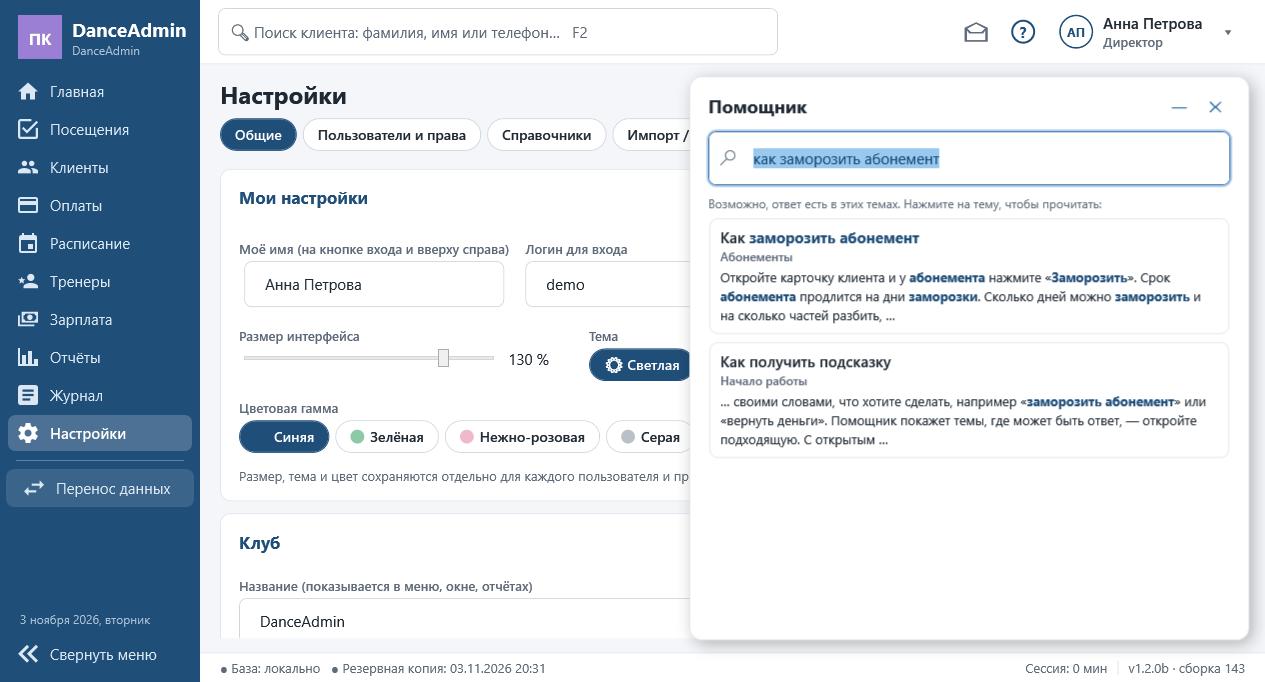
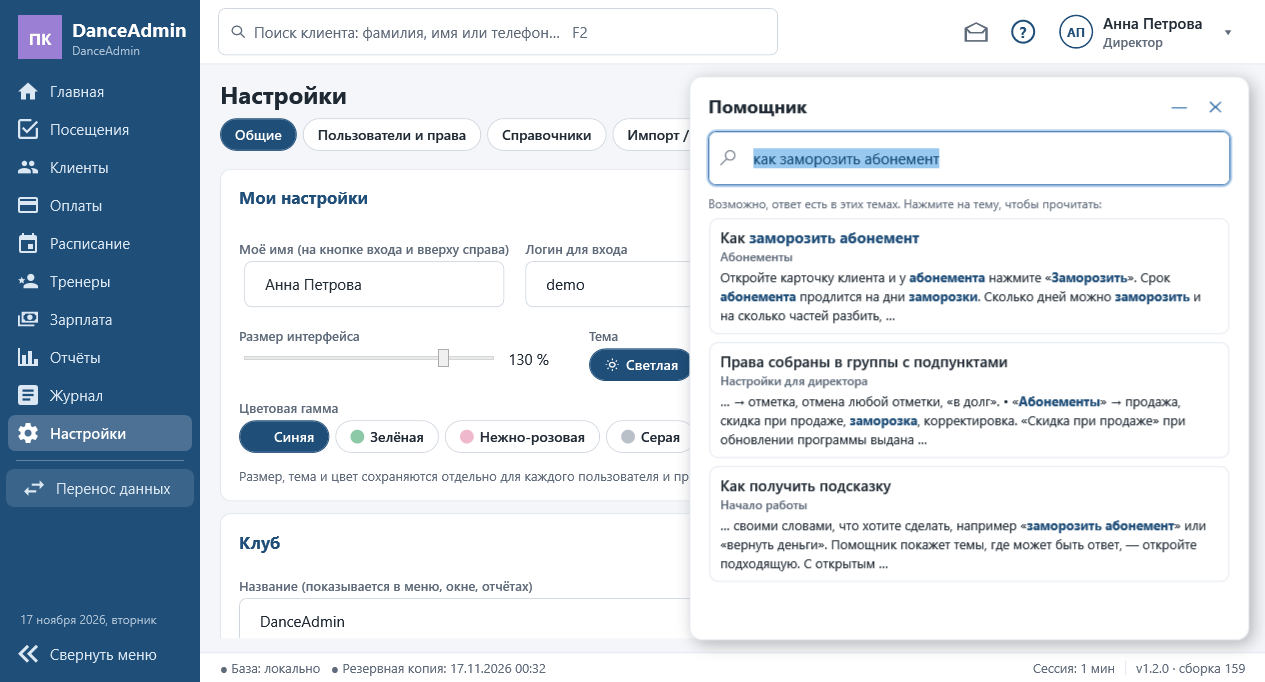
v1.2.0

diff --git a/CHANGELOG.md b/CHANGELOG.md
@@ -2,6 +2,126 @@
 
 Формат версий: `Major.Minor.Patch.Build` (ТЗ §24).
 
+## 1.2.0, сборка 159 — 17.11.2026 — обычный выпуск
+
+Всё из бета-версий 1.2.0b (сборки 132–157). Главное по сравнению с 1.1.0 (сборка 131):
+- **Отчёт смены:** все деньги смены — абонементы, иная оплата, иной расход, возвраты, зарплата; «Поступило в кассу за текущую смену»; отправка в Telegram (PDF, Excel, текст).
+- **Права ролей деревом** с подпунктами (галочка / квадратик / пусто), роли и наборы прав переносятся экспортом.
+- **Клиенты:** загрузка из Excel, семья клиента, общий абонемент на нескольких, клиенты без телефона и без возрастной категории.
+- **Аналитика** с графиками; помощник и новое руководство; перенос данных из старого учёта; аренда зала.
+- **Резервные копии:** надёжное восстановление, хранение по дням, неделям и месяцам, инструкция по Облаку Mail.ru.
+- Журнал с «Было / Стало» словами и фильтром «Расходы»; векторные значки; логотип разработчика в «О программе».
+
+Исправлено в выпуске: тёмная тема — имена клиентов в «Посещениях → Параллельно» и списки в «Клиенты → Группы / Возраст» стали читаемыми.
+
+## 1.2.0b, сборка 157 — 17.11.2026
+
+- **Логотип разработчика «AI Development»** в «Настройки → Общие → О программе» — слева от строк «Разработано…» и «Написать разработчику»; одноцветный, цвета текста (в тёмной теме светлый). Файл — `src/DanceAdmin.App/Assets/logo_AI.png` (исходник) и `logo-ai-mask.png` (для программы).
+- `build.ps1 -SkipTests` — сборка без прогона тестов.
+
+## 1.2.0b, сборка 156 — 17.11.2026
+
+- **«Поступило в кассу за текущую смену»** — новая зелёная строка в отчёте смены (окно, лист А4/PDF, текст, черновик закрытия): наличные оплаты − наличные возвраты − наличные расходы, без остатка с прошлой смены; подсказка с разбивкой. В «Отчёты → Отчёты смен» под суммой «В кассе» — мелкая зелёная строка «+… за смену» с той же подсказкой.
+- **Верхняя строка отчёта** («Наличные: … | Сдано руководителю: …») — жирным на зелёном фоне.
+- **Права ролей:** у пункта с подпунктами галочка — только когда отмечены все подпункты, часть — закрашенный квадратик, ничего — пусто; щелчок по квадратику отмечает все.
+- **«Сформировать зарплату за смену»:** ползунок времени двигается колёсиком мыши (5 минут за щелчок).
+
+## 1.2.0b, сборка 155 — 17.11.2026
+
+- **«− Расход» на «Главной»** — справа от «₽ Прочая оплата» (по праву «Расходы»).
+- **Отчёт смены показывает все деньги.** Новые разделы: «3. Иная оплата» (погашение долга, аренда, прочее, доплаты за старые абонементы — от кого, сумма, способ, назначение), «4. Иной расход» (расходы кроме зарплаты и возвраты с причиной), «5. Зарплата» (начислено / выдано). Старые отчёты открываются по-старому.
+- **Права ролей с подпунктами.** Группы «Клиенты», «Посещения», «Абонементы», «Оплаты» (с «Возвратами»), «Зарплата» (выдача, формировать другим); «Отчёты» → «Аналитика» и «Отчёты смен» — вкладки раздела по отдельности. При обновлении прежние права сохраняются.
+- **«Правила и ставки»** в «Справочниках» видны только с этим правом.
+- **Журнал:** «Было / Стало» обычными словами вместо JSON (только изменившиеся поля); новый фильтр «Расходы» (расходы и выдачи зарплаты); в записи «Права роли» — имя роли и полное название права.
+- **«Сформировать зарплату»** перенесена из «Оплат и кассы» в «Зарплату» — справа от «Сотрудники», за тонкой чертой; подсказка исправлена (смена не закрывается).
+- **«Посещения»** всегда открываются в виде «Параллельно».
+- **Значки:** мальчик и девочка — векторные (синий с чёлкой, малиновая с хвостиками и бантиками, серый — пол не указан); вместо цветных эмодзи — одноцветные контурные значки (способы оплаты, группы, возраст, комментарии, поиск, печать, пароль, тема, руководство, выбрать файл, Excel, «Только просмотр», сохранить в файл).
+
+## 1.2.0b, сборка 154 — 16.11.2026
+
+- **Роли в экспорте и импорте.** «Права ролей» выгружают и сами роли (кроме директора): галочки прав, ставки зарплаты (повременная, за отметки, фиксированная), учёт рабочего времени и округление. При импорте роль, которой нет, создаётся; у роли с тем же названием права, ставки и учёт времени заменяются (предупреждение в предпросмотре). Роль директора не трогается, пользователи и пароли не переносятся.
+- **Инструкция «Облако Mail.ru»** в «Настройки → Резервные копии» — кнопка «ⓘ Облако Mail.ru: инструкция» рядом с «Второй папкой для копий»: установка, вход, автозапуск, диск Облака, выбор папок, проверка; ссылки открываются в браузере.
+
+## 1.2.0b, сборка 153 — 16.11.2026
+
+- **Быстрее перенос в группу и возрастную категорию** («Клиенты → 👥 Группы / 🎂 Возраст») на большой базе: после «→» и «✕» программа обновляет только одного клиента, а не перечитывает всех (на 450 клиентах работа с базой — около 16 мс вместо 220 мс); в этих режимах не строятся плитки «Карточек». «Все →» в группу — одной записью в базу и одной строкой в журнале (450 клиентов — около 0,1 с вместо 3,5 с).
+
+## 1.2.0b, сборка 152 — 16.11.2026
+
+- **Шкала абонемента (по рисунку, уточнение к 151):** пройденные — закрашенные зелёные; последний пройденный — зелёный контур с номером внутри (сколько занятий отмечено); все следующие — бесцветные, синего выделения «следующего» больше нет.
+
+## 1.2.0b, сборка 151 — 16.11.2026
+
+- **Шкала абонемента:** число теперь в последнем зелёном (отмеченном) кружке — сколько занятий отмечено; раньше число стояло в следующем кружке (какое по счёту следующее). Следующий кружок по-прежнему обведён синим, без числа. На бледных кружках (перенос с бумаги, закончившийся абонемент) число тёмно-зелёное. Подсказка при наведении: «Отмечено занятий: N».
+
+## 1.2.0b, сборка 150 — 16.11.2026
+
+- **Семья клиента.** В карточке клиента («Изменить») — поле «Семья»: родственники через поиск, можно несколько, «✕» убирает. Семья общая для всех её членов; добавленный человек приносит свою семью (семьи объединяются); семья из одного человека не хранится. В карточке — знак семьи (взрослый с ребёнком) и «Семья: …» ссылками; при продаже абонемента — тот же знак и имена. Миграция V150_ClientFamily (поле Clients.FamilyId).
+- **Опция «Семья»** в «Расширенных» (новая карточка «Клиенты»), по умолчанию включена; выгружается с расширенными настройками.
+- **Семья в экспорте и импорте** клиентов (ключ «family» у членов одной семьи).
+- **Клиент без возрастной категории:** в карточке пункт «— не указана —» (сохраняется как есть), в «Клиенты → 🎂 Возраст» — «✕» убирает категорию.
+- **Клиенты из Excel** — без возрастной категории. Категория по умолчанию при импорте ставится только клиентам самого импорта (раньше — всем клиентам базы без категории).
+- **Экспорт:** кнопка «⬇ Выгрузить…» — слева под описанием, как в «Импорте».
+- Текст опции «Общий абонемент» в «Расширенных» — про нескольких участников.
+
+## 1.2.0b, сборка 149 — 15.11.2026
+
+- **Новая база — пустая.** При первом запуске программа не создаёт залы, группы и типы абонементов, возрастные категории (раньше — образцы). Студия заполняет справочники сама или импортом. Существующие базы не меняются.
+- **Экспорт — окно выбора.** Галочки убраны с карточки «Экспорт»: «⬇ Выгрузить…» открывает окно — клиенты, тренеры, расписание, справочники с подпунктами (типы и группы абонементов, направления, доплаты, залы, группы клиентов, возрастные категории), расширенные настройки (+ «вместе с токеном Telegram»), права ролей, «вместе с архивными». Выбор запоминается до закрытия программы.
+- **Импорт:** у «Справочников» в «Что импортировать» — те же подпункты. Группа клиента или возрастная категория, которой нет в базе, создаётся (предупреждение «будет создана» в предпросмотре).
+- **Клиенты из Excel** сразу получают согласие на обработку персональных данных (дата импорта).
+- **Право «Скачать журнал»** (подпункт «Журнал действий»): без него в «Журнале» нет кнопок «⬇ Скачать PDF» и «⬇ Excel», скачать нельзя. При обновлении выдано всем ролям и наборам с «Журналом действий».
+- **«Идёт загрузка списка клиентов…»** — при «добавить в группу» (всегда: «Открывается страница клиентов…»), при переключении фильтров «Клиентов» и переходах с «Главной» при большой базе.
+- **Перенос данных:** под именем клиента — «Сейчас: группа … · возраст …»; архивные группы и категории тоже есть в списках, поэтому у клиента подставляется его значение.
+
+## 1.2.0b, сборка 148 — 12.11.2026
+
+- **Ставки зарплаты по ролям**: показываются все роли; под названием роли — её работающие сотрудники, сотрудник «Не работает» не показывается (вернули в «Работает» — снова виден). Скрытие ролей из сборки 147 отменено.
+- **Общий абонемент — «Убрать» участника**: в окне «+ общий абонемент» список «Уже пользуются» с кнопкой «Убрать» (с подтверждением). Клиент больше не отмечается по абонементу; его прошлые посещения остаются. Действие — в журнал.
+
+## 1.2.0b, сборка 147 — 12.11.2026
+
+- **Телефон клиента необязателен** для всех. Введённый номер по-прежнему проверяется (+7 и 10 цифр). Клиенты без единого номера — в «Требует внимания» на «Главной» и в новом фильтре «Без телефона» в «Клиентах».
+- **Клиенты из Excel**: «_» в начале номера = «+»; пустая ячейка — без телефона; текст или непонятный номер — клиент добавляется, текст записывается в заметку («Телефон из файла: …»), в предпросмотре — предупреждение; номер со словами («… мама») — номер в телефон, весь текст в заметку.
+- **Общий абонемент на нескольких**: в карточке покупателя у действующего абонемента кнопка «+ общий абонемент» — выбрать одного или нескольких клиентов. У покупателя — «Общий абонемент с: …» (все участники ссылками), у участника — «Пользуется чужим абонементом · оплатил(а): …». Отчёт смены — по строке на каждого участника, бесплатно. Существующие общие абонементы перенесены в новую таблицу (миграция V147_MembershipShares).
+- **Импорт: «Что импортировать»** — после проверки файла галочки по категориям (клиенты, тренеры, расписание, справочники, расширенные настройки, права ролей); снятая категория не загружается, цифры пересчитываются сразу.
+- **Шаблоны расписания**: фильтры по направлению, тренеру и залу (общие с неделей) и счётчик шаблонов.
+- **Резервные копии**: путь второй папки и папки отчётов — текстом рядом с «Выбрать…», а не полем ввода; «Убрать» → «Удалить путь», появилось и у второй папки.
+- **Окно входа**: директор по центру сверху, остальные ниже по должности, ряды по три — каждый по центру окна.
+- **Права ролей деревом**: «Настройки» → «Пользователи и права», «Справочники» (→ типы и группы абонементов, направления, залы, группы клиентов, возрастные категории, правила и ставки), «Импорт / экспорт», «Резервные копии», «Печать», «Расширенные»; новое право «Отчёты / Аналитика» (раздел «Отчёты»), «Финансы» — выручка и «Оплаты». Галочка пункта ставит/снимает подпункты, подпункт включает пункт. При обновлении роли с «Настройки» получили все подпункты, с «Финансы» — «Отчёты / Аналитика».
+- **Пользователи**: «Удалить» у сотрудника, который уже работал, неактивна, подсказка объясняет почему.
+- **Группы клиентов**: в строке группы ссылка «добавить в группу» — «Клиенты» → «Группы» со всеми клиентами и этой группой справа.
+
+## 1.2.0b, сборка 146 — 12.11.2026
+
+Исправления по полному тесту сборки 145:
+- **Тип абонемента**: сохранённая заморозка «0 дней» при повторном открытии больше не превращается в 12 дней (и части — в 2); поля показывают значения из базы.
+- **Клиенты из Excel**: в замечаниях — номер строки файла Excel («Клиенты, строка 5»), пустые строки нумерацию не сбивают; дубль внутри файла — «совпадает со строкой 2 (ФИО)»; строка без телефона — «Не указан телефон».
+- **Импорт**: если импортировать нечего (все записи — ошибки или уже в базе), «Импортировать (0)» не создаёт пустую запись в истории и лишнюю резервную копию — появляется пояснение.
+- **Роли**: название — не длиннее 40 символов; при пустом названии под полем подсказка, а не молчание.
+- **Настройки**: вкладки переносятся на вторую строку, если не помещаются (маленький экран, крупный шрифт) — «Расширенные» всегда видна.
+- **Аналитика**: длинные имена тренеров — с «…» и полностью во всплывающей подсказке; столбец «Занятий» уже.
+
+## 1.2.0b, сборка 145 — 11.11.2026
+
+- **Клиенты из Excel.** В «Настройки → Импорт / экспорт» — кнопка «📋 Клиенты из Excel…» (и .xlsx в «Выбрать файл…»): первый столбец — полное имя (Фамилия Имя Отчество), второй — телефон, строка заголовка пропускается сама. Дальше — обычный предпросмотр импорта: ошибки (нет имени, неверный телефон) и дубли (то же имя и телефон уже в базе) пропускаются; клиенты попадают во взрослую категорию; загрузку можно откатить. Телефон, записанный в Excel числом, читается правильно.
+- **Телефон ребёнка необязателен.** Для детской возрастной категории (с представителем) поле «Телефон» без звёздочки: можно оставить пустым или вписать телефон родителя. У взрослых телефон обязателен; неверно введённый номер не принимается и у ребёнка. В карточке ребёнка без телефона пустая строка не показывается.
+- **Заморозка в типе абонемента.** Абонемент на 1 занятие не замораживается: поля «Заморозка, дней» и «Можно разбить на частей» неактивны. Частей не больше, чем занятий (4 занятия — максимум 4), подсказка под полями; то же ограничение действует и при заморозке абонементов уже сохранённых типов (превысить может директор).
+- **Импорт / экспорт**: вкладка прокручивается — на маленьком экране и с крупным шрифтом видны все блоки; список замечаний в предпросмотре прокручивается внутри.
+- Импорт клиентов без возрастной категории (в том числе JSON) ставит категорию по умолчанию, как при ручном создании клиента.
+
+## 1.2.0b, сборка 144 — 05.11.2026
+
+- **Telegram: PDF приходит как PDF.** Имя файла с русскими буквами («Отчет №24 - 03.11.2026 - [Анна].pdf») уходит обычной строкой UTF-8, а не в записи «=?utf-8?B?…?=», которую Telegram не понимает: раньше файл мог прийти без имени и расширения. У файлов правильный тип (PDF, Excel, текст). Если кому-то не доставлено — в сообщении имя получателя, а не только ID.
+- **Telegram: кому идут уведомления.** В настройках бота — список получателей по именам (название группы или имя человека, подтягиваются из Telegram и запоминаются) с кнопкой «Убрать» у каждого.
+- **Шапка отчёта смены**: «Наличные: f1 / f2 (дата смены) | Сдано руководителю: f3 (дата сдачи)»; f1 — на руках до смены, f3 — сдано, f2 = f1 + наличные за смену − f3. Так же — в подписи к файлу в Telegram и в тексте отчёта.
+- **«Фактически на руках»** вместо «факт» в отчёте и «Фактически в кассе» в окне закрытия смены; название меняется в «Расширенных» (карточка «Наличные в отчёте смены»).
+- **Пользователи**: «Вкл/выкл» → «● Работает» / «○ Не работает» (видно состояние, перед «Не работает» — подтверждение); «Скрыть» / «Показать» убирает сотрудника, который уже не работает, из списков «Зарплаты» (пока остаток по зарплате не 0 — он виден).
+- **Перенос данных**: после «Отмечено» — дата: отмечено больше 0 — «Дата первого занятия» (абонемент начат с неё), 0 или пусто — «Дата покупки абонемента» (не начат, ожидание считается от покупки). Подпись меняется сама; дата из будущего не принимается.
+- **Закрытие программы** больше не «зависает» («Не отвечает» в заголовке): резервная копия при выходе делается в фоне, надпись «Приложение закрывается…» видна до конца.
+- **Ошибка при смене роли** сотрудника в «Пользователях» («SelectedItems может быть изменено только в режимах множественного выделения») исправлена: список перестраивается после того, как выбор закончен.
+- **Руководство и помощник**: колесо мыши листает в 3 раза быстрее.
+
 ## 1.2.0b, сборка 143 — 01.11.2026
 
 Исправления по ретесту сборки 142:
@@ -27,7 +147,7 @@
 - **Помощник переделан**: на вопрос своими словами предлагает список тем, где может быть ответ, с кусочком текста в каждой; щелчок открывает тему целиком. Понимает формы слов и житейские выражения («вернуть деньги» → возврат, «бот» → Telegram). Все его тексты написаны понятным языком.
 - **Расписание**: фильтр по направлениям; кнопки «Печать» и «⬇ Скачать PDF» — на лист попадает именно то, что выбрано (неделя, тренер, зал, направление).
 - **Telegram-бот**: токен на экране показан только частично (новый вписывается поверх); «Проверить» показывает всплывающее сообщение с именем бота.
-- **«Информер»** (Настройки → Расширенные): формат отчёта в Telegram — PDF, Excel, текст. Имя файла «Отчет №16 - 29.10.2026 - [Анна]» (косая черта в именах файлов недопустима), в подписи: «Отчет №16 / 29.10.2026 / [Анна]», ниже наличные, ниже сумма, переданная из кассы.
+- **«Информер»** (Настройки → Расширенные): формат отчёта в Telegram — PDF, Excel, текст. Имя файла «Отчет №16 - 29.10.2026 - [Таня]» (косая черта в именах файлов недопустима), в подписи: «Отчет №16 / 29.10.2026 / [Таня]», ниже наличные, ниже сумма, переданная из кассы.
 - **Удаление пользователя** директором (Настройки → Пользователи и права): только если сотрудник ещё не работал в программе; иначе он остаётся в истории, и программа предлагает закрыть вход кнопкой «Вкл/выкл».
 - **«Перенос данных»** без прокрутки вбок: абонемент, дата начала и число занятий — друг под другом, группа и возраст — в одном столбце.
 - **Исправлено — восстановление из копии**: вместо сообщения «DanceAdmin уже запущен» и закрытия программа показывает «Программа перезапускается…» и запускается сама.
@@ -57,7 +177,7 @@
 - **Право «Перенос данных»** (отдельно от «Импорт / экспорт»): раздел «Перенос данных» доступен директору и тем, у кого это право; добавлено в наборы «Стандартный» и «Полный доступ» (в существующих базах — один раз при обновлении).
 - **Экспорт**: галочки «Расширенные настройки» (всё из «Расширенных», включая цвета и получателей Telegram) и «Права ролей (наборы прав)». Токен Telegram — только по отдельной галочке «вместе с токеном Telegram» с предупреждением. Импорт читает их обратно (настройки заменяют текущие, одноимённый набор прав перезаписывается).
 - **Telegram-бот**: кнопка «ⓘ Инструкция» — пошагово: @BotFather и /newbot, токен, получатели («Старт», «Найти чат», @userinfobot), группа (ID с -100, Group Privacy), проверка, что делать при ошибках.
-- **Отчёт смены (лист А4)**, подпись внизу: «Отчёт закрыт <дата> · смену вёл(а): Анна» (и «закрыл(а): …», если закрывал другой), ниже мелко — «Лист сформирован <сейчас> · открыл(а): …». Раньше внизу стояло только имя того, кто открыл лист. Остальные листы — «Лист сформирован … · открыл(а): …».
+- **Отчёт смены (лист А4)**, подпись внизу: «Отчёт закрыт <дата> · смену вёл(а): Таня» (и «закрыл(а): …», если закрывал другой), ниже мелко — «Лист сформирован <сейчас> · открыл(а): …». Раньше внизу стояло только имя того, кто открыл лист. Остальные листы — «Лист сформирован … · открыл(а): …».
 - **«Только просмотр»**: настройки больше не сжимаются в узкую полосу; директор видит все вкладки (Пользователи, Справочники, Расширенные…) — для просмотра, с пометкой «изменить нельзя».
 - «Перенос данных»: длинные ФИО (перенос на 2 строки, «…» и подсказка), даты и названия в списках помещаются — в обоих видах.
 - «Оплаты и касса»: «Сотрудник» — по ширине имени, «Комментарий» шире и ближе к «Сотруднику».
@@ -310,12 +430,12 @@
 - Брошенная смена: при следующем входе администратор сначала оформляет «Отчёт за прошлую смену» (до этого — только просмотр): «Реально отработано, ч» (не больше посчитанного), сейф, наличные. Зарплата за эту смену — по указанным часам и непосчитанным отметкам; каждое отмеченное посещение оплачивается один раз. Потом начинается новая смена.
 - Директор может закрыть смену за администратора: в «Закрытии смены» — «Чья смена».
 - Закрытие смены: «Перенесено в сейф, ₽» — «Фактически в кассе» пересчитывается само (можно поправить). В отчёте строка «Наличные перенесены в сейф», в левом верхнем углу — «Сейф: предыдущая смена / эта смена» (вместо кассы). Перенос в сейф не считается расхождением.
-- Строка состояния: все открытые смены — «Смена (Анна): 2 ч 10 мин с 09:00»; смена 12 ч и больше — красным с ⚠. На «Главной» — предупреждение «Смена «…» открыта 13 ч» с кнопкой «Закрыть смену».
+- Строка состояния: все открытые смены — «Смена (Таня): 2 ч 10 мин с 09:00»; смена 12 ч и больше — красным с ⚠. На «Главной» — предупреждение «Смена «…» открыта 13 ч» с кнопкой «Закрыть смену».
 - «Сформировать зарплату» (одному, всем, себе в «Оплатах», при закрытии смены): окно с посчитанным временем и полем «Уточнённое время, ч» (шаг 0,5, не больше посчитанного), сумма пересчитывается; в истории — «время уточнено: X → Y ч».
 
 ## 1.0.0b, сборка 113 — 16.10.2026
 
-- «Нал в кассе» на «Главной» (наличные, не сданные закрытием смены). Если смены не закрыты у двоих и больше — под суммой мелко в столбик: «500 ₽ (Директор)», «700 ₽ (Анна)»; так же в «Оплатах» (за сегодня).
+- «Нал в кассе» на «Главной» (наличные, не сданные закрытием смены). Если смены не закрыты у двоих и больше — под суммой мелко в столбик: «500 ₽ (Директор)», «700 ₽ (Таня)»; так же в «Оплатах» (за сегодня).
 - При закрытии программы с несданными наличными — «Касса не закрыта!»: «Всё равно закрыть» / «Вернуться» (по умолчанию «Вернуться»).
 - «Зарплата» открывается с фильтром «Сегодня».
 

diff --git a/RELEASE_NOTES.md b/RELEASE_NOTES.md
@@ -1,28 +1,27 @@
-# DanceAdmin 1.2.0b (сборка 143) — бета
+# DanceAdmin 1.2.0 (сборка 159)
 
-Предварительный выпуск с новыми возможностями. Последний обычный выпуск — 1.1.0 (сборка 131).
+Обычный выпуск: всё, что появилось в бета-версиях 1.2.0b, проверено и собрано в одну версию. Предыдущий обычный выпуск — 1.1.0 (сборка 131).
 
 **Скачать:**
-- `DanceAdmin_Setup_1.2.0b-143.exe` — установщик (рекомендуется);
-- `DanceAdmin_1.2.0b-143_portable.zip` — переносная версия, без установки (exe, лицензия, руководство).
+- `DanceAdmin_Setup_1.2.0-159.exe` — установщик (рекомендуется);
+- `DanceAdmin_1.2.0-159_portable.zip` — переносная версия, без установки (exe, лицензия, руководство).
 
 Windows 10/11 x64, .NET внутри. Данные — в `C:\ProgramData\DanceAdmin\`. Установка поверх прежней версии сохраняет базу (обновляется автоматически, перед обновлением делается резервная копия).
 
 ## Что нового по сравнению с 1.1.0 (сборка 131)
-- **Помощник и руководство:** значок «?» (F1) — вопрос своими словами, помощник предлагает подходящие темы; руководство переписано простым языком, по шагам, его можно свернуть вниз окна.
-- **Продажа:** скидка с причиной (по праву роли «Скидка при продаже»), общий абонемент на двоих.
-- **Аренда зала** с проверкой занятости и отметкой в расписании; полный возврат освобождает зал.
-- **Расписание:** фильтр по направлениям, печать и PDF того, что выбрано.
-- **Аналитика:** графики — выручка по месяцам за год с выбором года, по тренерам и залам, новые и ушедшие клиенты, загрузка залов, посещения по дням и часам.
-- **Telegram:** отправка отчёта смены всем получателям; формат (PDF, Excel, текст) — в «Информере»; пошаговая инструкция; токен хранится зашифрованным и показывается частично.
-- **Перенос данных** из старого учёта: абонементы, группы и общий долг клиента.
-- **Резервные копии:** перед восстановлением видно, что пропадёт; номера отчётов не повторяются; копии хранятся по дням, неделям и месяцам; при повреждённой базе — пошаговая инструкция, восстановление работает и поверх повреждённой базы.
-- **Пользователи:** свой логин можно сменить, директор может удалить сотрудника, который ещё не работал; режим «Только просмотр» показывает все настройки.
-- **Экспорт** расширенных настроек и наборов прав.
-- **Исправления по итогам тестирования** и много мелких улучшений интерфейса.
+- **Отчёт смены показывает все деньги:** проданные абонементы, иная оплата (долги, аренда, прочее), иной расход и возвраты, зарплата; строка «Поступило в кассу за текущую смену»; в списке отчётов — сколько поступило за каждую смену. Отправка отчёта в Telegram (PDF, Excel или текст).
+- **Права ролей деревом:** группы с подпунктами (клиенты, посещения, абонементы, оплаты, отчёты, зарплата, настройки, справочники); у частично выбранной группы — квадратик. Роли и наборы прав переносятся экспортом и импортом.
+- **Клиенты:** загрузка списка из Excel (ФИО и телефон), семья клиента, общий абонемент на нескольких человек, клиенты без телефона и без возрастной категории.
+- **Аналитика** с графиками; **помощник** (значок «?», F1) и новое руководство простым языком.
+- **Перенос данных** из старого учёта: абонементы, группы и долги клиентов.
+- **Аренда зала** с проверкой занятости и отметкой в расписании; скидка при продаже по праву роли.
+- **Резервные копии:** перед восстановлением видно, что пропадёт; копии хранятся по дням, неделям и месяцам; пошаговая инструкция при повреждённой базе и инструкция по Облаку Mail.ru.
+- **Журнал действий:** «Было / Стало» обычными словами, фильтр «Расходы», скачивание по отдельному праву.
+- **Удобнее:** «Сформировать зарплату» — в разделе «Зарплата», ползунок времени двигается колёсиком; «Посещения» открываются сразу в виде «Параллельно»; кнопка «Расход» на главной; новые значки.
+- **Исправления по итогам тестирования**, в том числе читаемость тёмной темы.
 
 ## Важно
-- Это бета-версия: возможны недоработки. Делайте резервные копии (Настройки → Резервные копии, «вторая папка» на флешку или в облако).
+- Делайте резервные копии (Настройки → Резервные копии, «вторая папка» на флешку или в облако).
 - Программа не подписана сертификатом: Windows SmartScreen покажет предупреждение — «Подробнее» → «Выполнить в любом случае».
 - Токен Telegram зашифрован ключом компьютера: после переноса базы на другой компьютер его нужно вписать заново.
 - Об ошибках и пожеланиях — в Issues.
